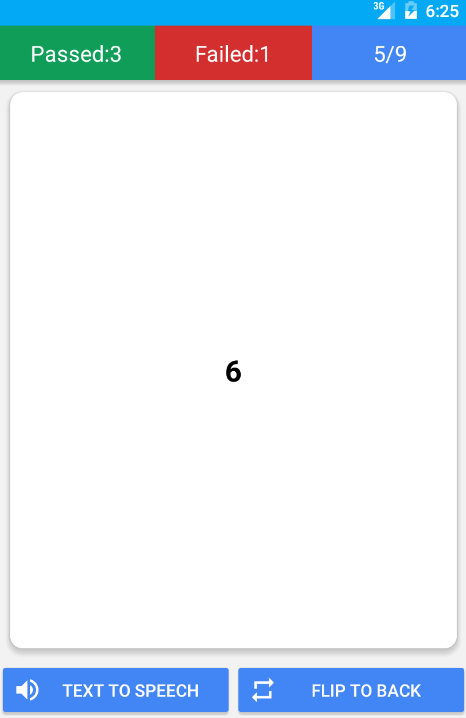
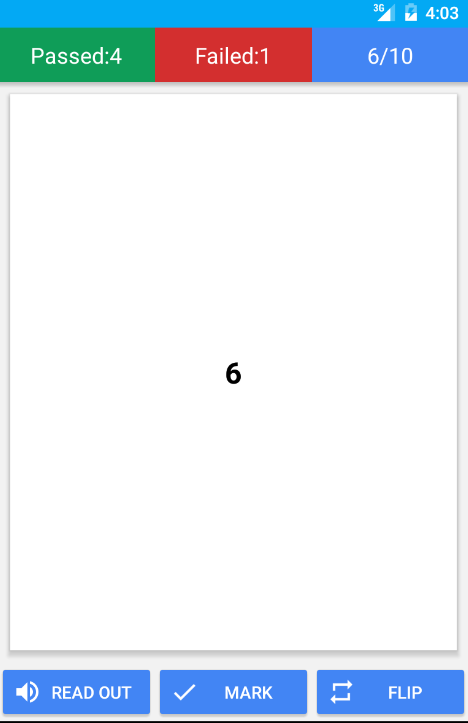
rebuilding site Fri Sep 25 18:13:02 PDT 2015

diff --git a/work/simpleswipeflashcard_ja/index.html b/work/simpleswipeflashcard_ja/index.html
@@ -75,6 +75,8 @@
 一部の機種で&rdquo;裏面へ&rdquo;ボタンタップ時にアプリがクラッシュする問題を修正しました。</li>
 <li>2015/09/23 - Version1.0.2リリース<br>
 シャッフルテスト時に画面の回転等により再度順番がシャッフルされ、同じ単語が複数回表示されてしまう等の不具合を修正しました。</li>
+<li>2015/09/25 - Version1.1.0リリース<br>
+テスト中に単語を暗記済みにすることができるようになりました。</li>
 </ul>
 
 <h1 id="How:e5366aa6e519a0bdbdf020453b8df8a1">使い方</h1>
@@ -156,6 +158,7 @@
 
 <ul>
 <li>&ldquo;読み上げ&rdquo;ボタンをタップするとAndroidの組み込み機能により合成音声で単語を読み上げます。発音の確認にご利用ください。対応している端末のみで利用可能です。</li>
+<li>&ldquo;暗記済み&rdquo;ボタンをタップすると単語を暗記済み(詳細は後述)とします。</li>
 <li>&ldquo;裏面へ&rdquo;ボタンをタップするとカードを裏面(単語の意味)にひっくり返します。&rdquo;裏面へ&rdquo;ボタンをタップした単語は&rdquo;忘れてた&rdquo;単語としてカウントされます。</li>
 <li>次の単語へ進むときはカードを左にスワイプします。&rdquo;裏面へ&rdquo;ボタンをタップせずに次のカードに進んだ単語は&rdquo;覚えてた&rdquo;単語としてカウントされます。</li>
 </ul>
@@ -179,8 +182,14 @@
 <img src="https://daikikohara.github.io/images/simpleswipeflashcard/jp/result_remember.png" alt="" class="pure-img" >
 
 <ul>
-<li>暗記済みとされる単語の一覧画面です。単語は一定回数(回数は設定画面で変更可能)&ldquo;覚えてた&rdquo;単語としてテストを終了することで暗記済みになります。
-この画面でチェックを外すと暗記済みにしないようにできます。</li>
+<li>暗記済みとされる単語の一覧画面です。単語は以下の場合に暗記済みとなります。
+
+<ul>
+<li>一定回数(回数は設定画面で変更可能)&ldquo;覚えてた&rdquo;単語としてテストを終了した場合</li>
+<li>テスト中に該当の単語で&rdquo;暗記済み&rdquo;ボタンをタップした場合</li>
+</ul></li>
+<li>暗記済みとなった単語は次回以降のテストでは出てきません。(暗記済み単語のテストを選択した場合は除く)</li>
+<li>チェックを外すと暗記済みにしないようにできます。</li>
 </ul>
 
 <h2 id="5-設定画面:e5366aa6e519a0bdbdf020453b8df8a1">5. 設定画面</h2>

diff --git a/work/simpleswipeflashcard_en/index.html b/work/simpleswipeflashcard_en/index.html
@@ -74,6 +74,8 @@ Click the link above to open GooglePlay for more detail.</p>
 Fixed problem with some devices which crashes the app when the flip button is being tapped.</li>
 <li>Sep 23 2015 - Version1.0.2 released.<br>
 Fixed issue with the order of flashcard getting reshuffled when the device gets rotated at the shuffle test.</li>
+<li>Sep 25 2015 - Version1.1.0 released.<br>
+You can now mark words as remembered during the test.</li>
 </ul>
 
 <h1 id="How:7af77ca426a371e668acd4bc69b47f95">How to use</h1>
@@ -153,8 +155,9 @@ You can edit, delete or mark as remembered the word.</li>
 <img src="https://daikikohara.github.io/images/simpleswipeflashcard/en/test.png" alt="" class="pure-img" >
 
 <ul>
-<li>Tap &ldquo;Text to Speech&rdquo; to make your device read out the word.</li>
-<li>Tap &ldquo;Flip to Back&rdquo; to see the back side(answer).
+<li>Tap &ldquo;READ OUT&rdquo; to make your device read out the word.</li>
+<li>Tap &ldquo;MARK&rdquo; to mark the word as remembered.</li>
+<li>Tap &ldquo;Flip&rdquo; to see the back side(answer).
 If you see the back side, the word will be marked as failed.</li>
 <li>Swipe left to go to the next card.
 If you go to the next card without flipping to the back side, the word will be marked as passed.</li>
@@ -179,8 +182,13 @@ If you go to the next card without flipping to the back side, the word will be m
 
 <ul>
 <li>The list of the marked-as-remembered words are shown in this page.
-A word will be marked as remembered when you pass a certain times of test.
-You can set the number of the times in the settings.</li>
+A word will be marked as remembered when
+
+<ul>
+<li>you pass a certain times of test.</li>
+<li>you tap the &ldquo;MARK&rdquo; button on the card during the test.(You can set the number of the times in the settings.)</li>
+</ul></li>
+<li>The remembered words will not be shown in the test afterwards.</li>
 <li>Uncheck to not mark the word as remembered.</li>
 </ul>
 
